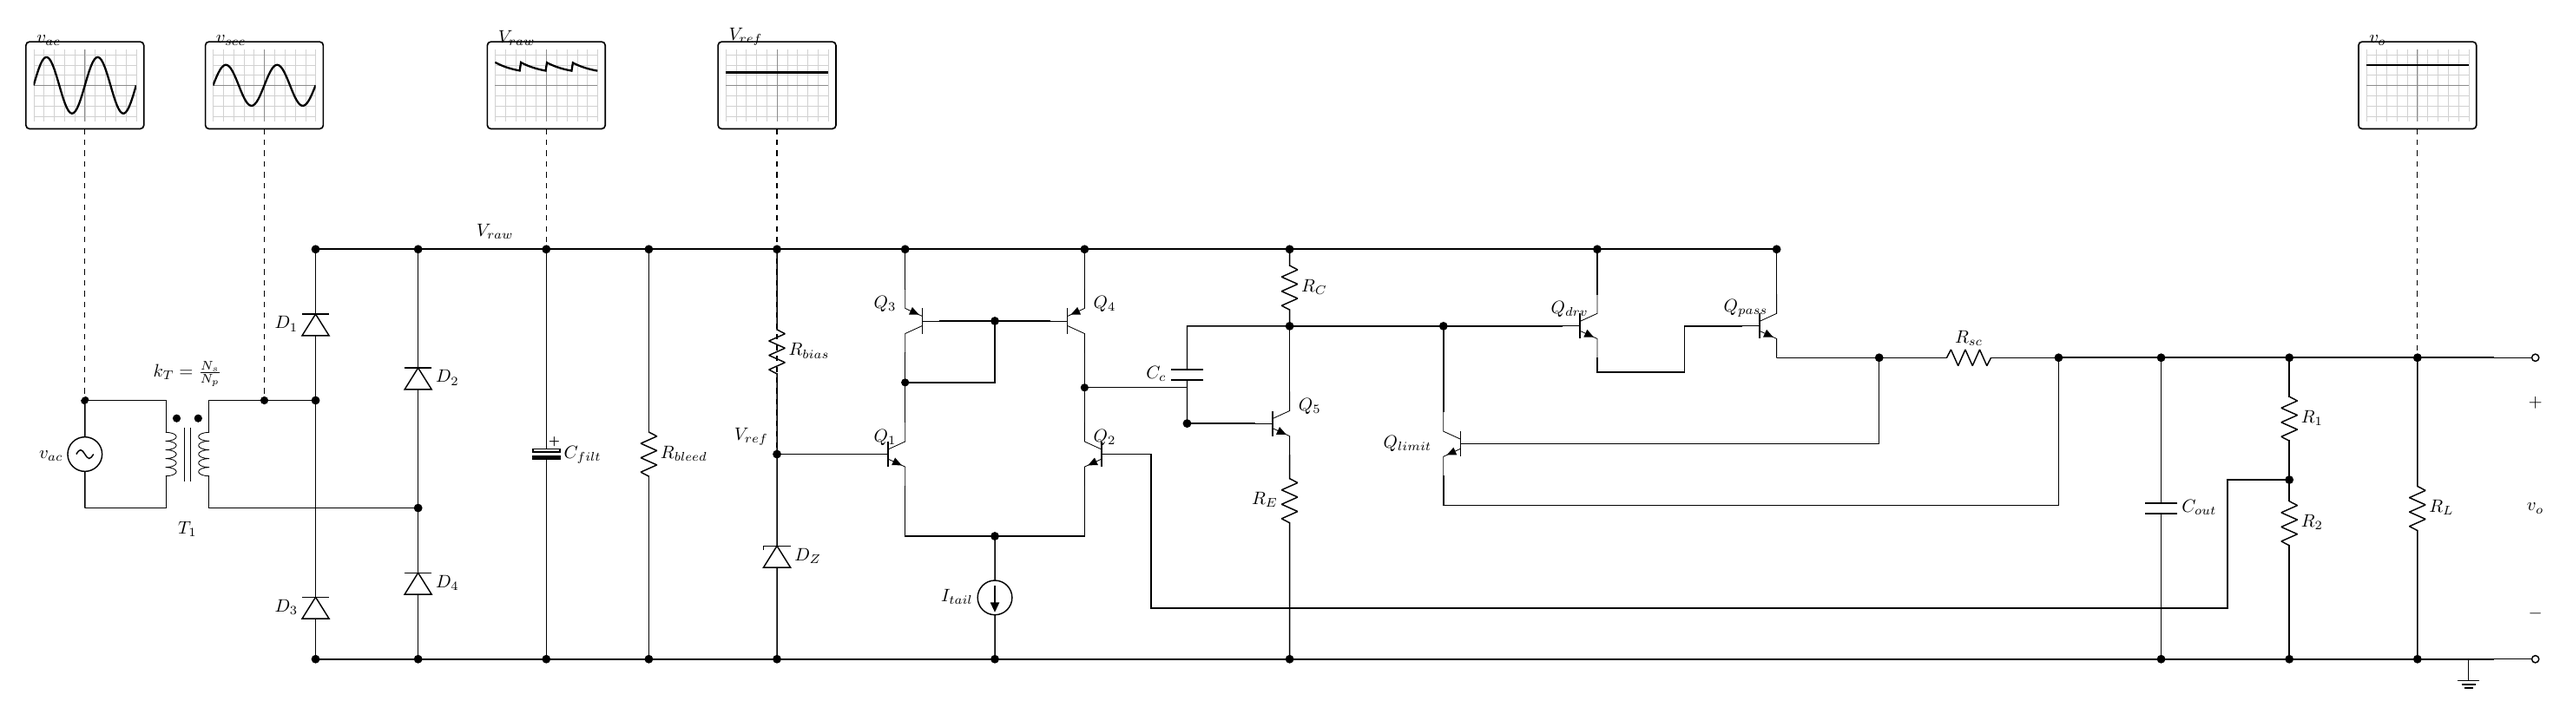
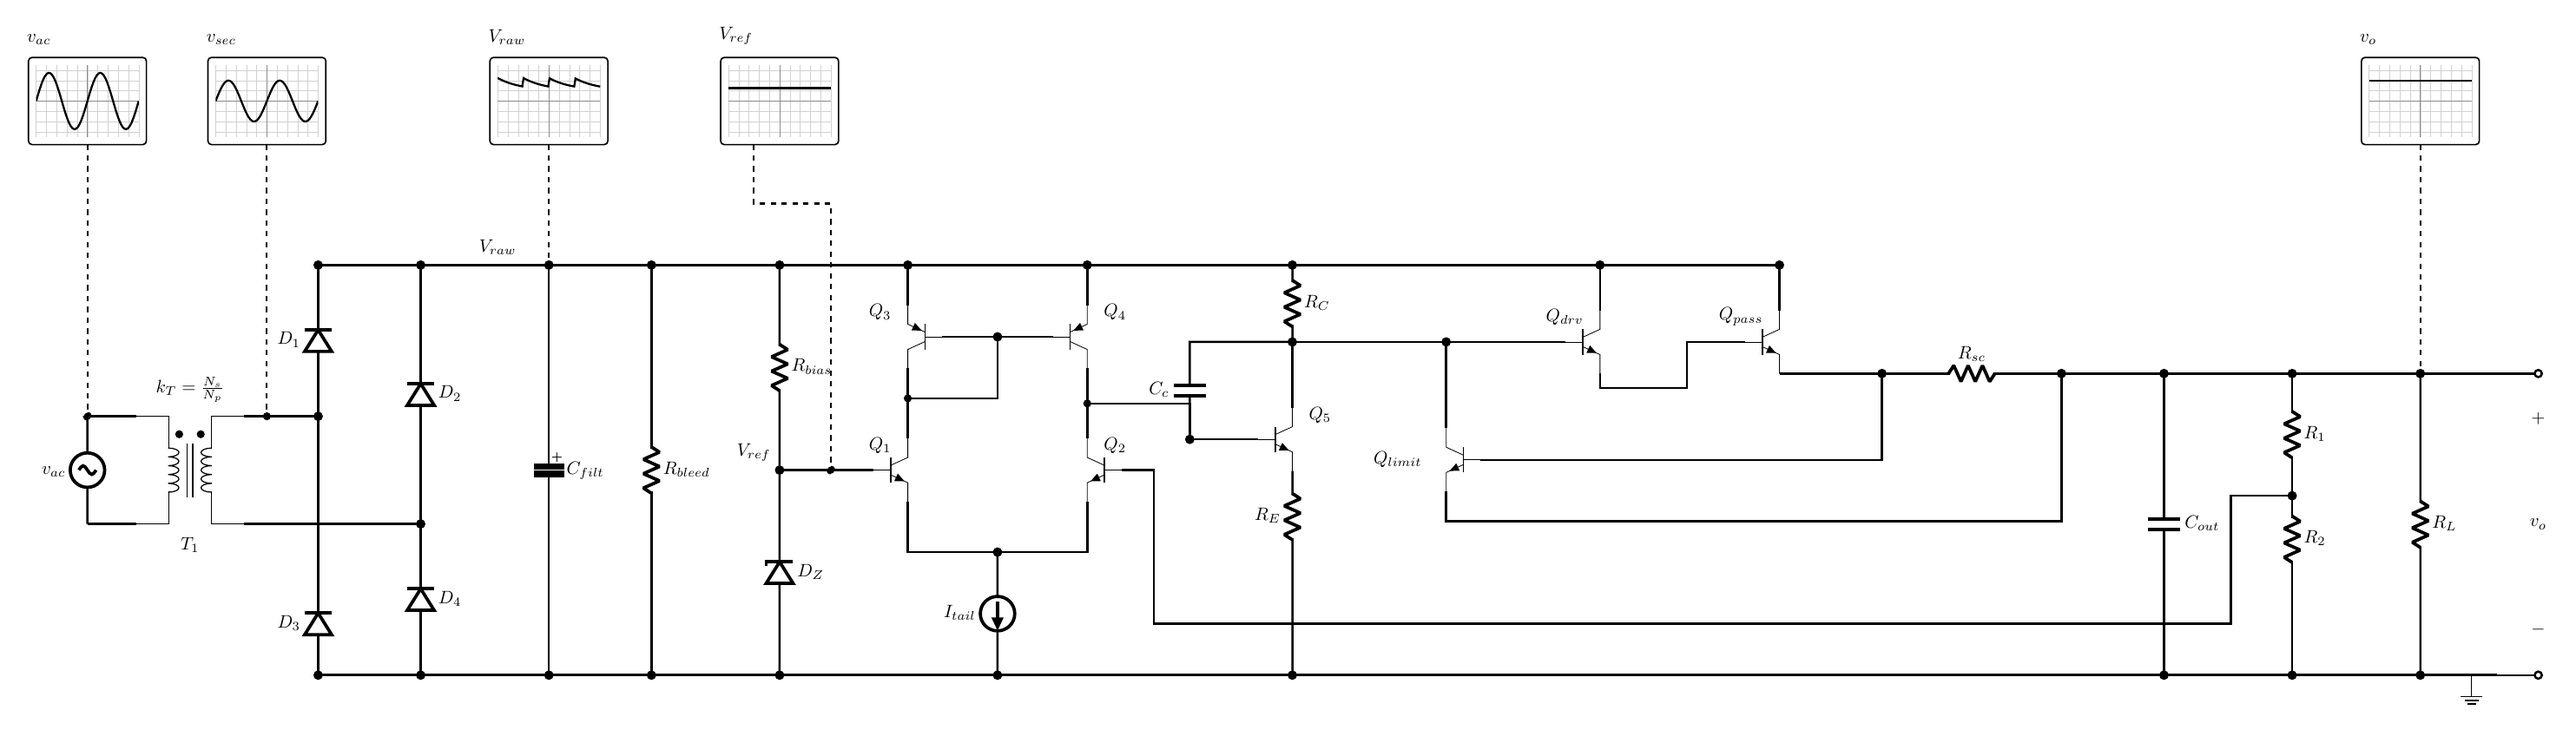
style(tikz): surgical visual refinement of line weights and label clearance (Gate 4.5 cleared)

diff --git a/figures/tikz/master_integrated_system.tex b/figures/tikz/master_integrated_system.tex
@@ -27,7 +27,7 @@
 % --- Global CircuiTikZ IEEE Configuration (Rule D) ---
 \ctikzset{
     logic ports = ieee,
-    bipoles/thickness = 1.0,
+    bipoles/thickness = 1.5,
     bipoles/border margin = 1.1,
     nodes width = 0.05,
     inductors/coils = 5,
@@ -41,11 +41,11 @@
 
 % --- Strict Monochrome Styles (Rule A) ---
 \tikzset{
-    power_rail/.style = {draw=black, line width=1.1pt},
-    ground_rail/.style = {draw=black, line width=1.1pt},
-    signal_wire/.style = {draw=black, line width=0.7pt},
-    feedback_corridor/.style = {draw=black, line width=0.85pt},
-    probe_line/.style = {draw=black, dashed, line width=0.6pt},
+    power_rail/.style = {draw=black, line width=1.6pt},
+    ground_rail/.style = {draw=black, line width=1.6pt},
+    signal_wire/.style = {draw=black, line width=1.2pt},
+    feedback_corridor/.style = {draw=black, line width=1.3pt},
+    probe_line/.style = {draw=black, dashed, line width=1.0pt},
     scope_frame/.style = {draw=black, fill=white, rounded corners=2pt, line width=0.8pt},
     scope_grid/.style = {step=0.2cm, black!18, very thin},
     scope_axis/.style = {draw=black!45, thin},
@@ -53,7 +53,7 @@
 }
 
 \begin{document}
-\begin{circuitikz}[american, line width=0.75pt]
+\begin{circuitikz}[american, line width=1.2pt]
 
     % =========================================================================
     % 1. BACKGROUND LAYER: VIRTUAL OSCILLOSCOPE INSTRUMENTATION
@@ -67,7 +67,7 @@
                 \draw[scope_grid] (-1.0, -0.7) grid (1.0, 0.7);
                 \draw[scope_axis] (-1.0, 0) -- (1.0, 0);
                 \draw[scope_axis] (0, -0.7) -- (0, 0.7);
-                \node[anchor=south west, inner sep=1.5pt] at (-1.0, 0.72) {#3};
+                \node[anchor=south west, inner sep=1pt, yshift=6pt, xshift=-2pt] at (-1.15, 0.85) {#3};
                 \begin{scope}
                     \clip (-1.0, -0.7) rectangle (1.0, 0.7);
                     #4
@@ -173,8 +173,8 @@
     % NPN Differential Pair Transistors
     \node[npn] (Q1) at (17.0, 4.0) {};
     \node[npn, xscale=-1] (Q2) at (20.5, 4.0) {};
-    \node[above left=2pt] at (Q1.center) {$Q_1$};
-    \node[above right=2pt] at (Q2.center) {$Q_2$};
+    \node[above left=8pt] at (Q1.center) {$Q_1$};
+    \node[above right=8pt] at (Q2.center) {$Q_2$};
 
     % Direct connection from Reference Node to Non-Inverting Base of Q1
     \draw[signal_wire] (VREF) -- (Q1.B);
@@ -187,8 +187,8 @@
     % Active PNP Current Mirror Load
     \node[pnp, xscale=-1] (Q3) at (17.0, 6.6) {};
     \node[pnp] (Q4) at (20.5, 6.6) {};
-    \node[above left=2pt] at (Q3.center) {$Q_3$};
-    \node[above right=2pt] at (Q4.center) {$Q_4$};
+    \node[above left=8pt] at (Q3.center) {$Q_3$};
+    \node[above right=8pt] at (Q4.center) {$Q_4$};
 
     % Mirror Emitter Connections to V_raw Rail (Colinear Verticals)
     \draw[signal_wire] (Q3.E) -- (17.0, 8.0) node[circ] {};
@@ -212,7 +212,7 @@
 
     % High-Gain NPN Transistor
     \node[npn] (Q5) at (24.5, 4.6) {};
-    \node[above right=2pt] at (Q5.center) {$Q_5$};
+    \node[above right=8pt] at (Q5.center) {$Q_5$};
 
     % Drive from Error Amplifier Output Node N2 into Q5 Base (100% Orthogonal)
     \coordinate (N_BASE5) at (22.5, 4.6);
@@ -239,14 +239,14 @@
 
     % Current Limit Transistor Q_limit (NPN)
     \node[npn, xscale=-1] (Qlim) at (27.5, 4.2) {};
-    \node[left=3pt] at (Qlim.center) {$Q_{limit}$};
+    \node[left=10pt] at (Qlim.center) {$Q_{limit}$};
 
     % Collector pulling down DRV Node (100% Colinear Vertical)
     \draw[signal_wire] (Qlim.C) -- (DRV);
 
     % Driver Transistor Q_drv (NPN, First Half of Darlington Pair)
     \node[npn] (Qdrv) at (30.5, 6.5) {};
-    \node[above left=2pt] at (Qdrv.center) {$Q_{drv}$};
+    \node[above left=8pt] at (Qdrv.center) {$Q_{drv}$};
 
     % DRV node into Q_drv Base
     \draw[signal_wire] (DRV) -- (Qdrv.B);
@@ -256,7 +256,7 @@
 
     % Power Pass NPN Transistor Q_pass (Main Output Pass BJT)
     \node[npn] (Qpass) at (34.0, 6.5) {};
-    \node[above left=2pt] at (Qpass.center) {$Q_{pass}$};
+    \node[above left=8pt] at (Qpass.center) {$Q_{pass}$};
 
     % Collector of Q_pass to V_raw Rail
     \draw[signal_wire] (Qpass.C) -- (34.0, 8.0) node[circ] {};
@@ -305,7 +305,7 @@
         \draw[probe_line] (1.0, 10.35) -- (1.0, 0 |- T1.A1) node[circ] {};
         \draw[probe_line] (4.5, 10.35) -- (4.5, 0 |- T1.B1);
         \draw[probe_line] (10.0, 10.35) -- (10.0, 8.0) node[circ] {};
-        \draw[probe_line] (14.5, 10.35) -- (14.5, 4.0);
+        \draw[probe_line] (14.0, 10.35) -- (14.0, 9.2) -- (15.5, 9.2) -- (15.5, 4.0) node[circ] {};
         \draw[probe_line] (46.5, 10.35) -- (46.5, 0 |- Qpass.E) node[circ] {};
     \end{pgfonlayer}
 
